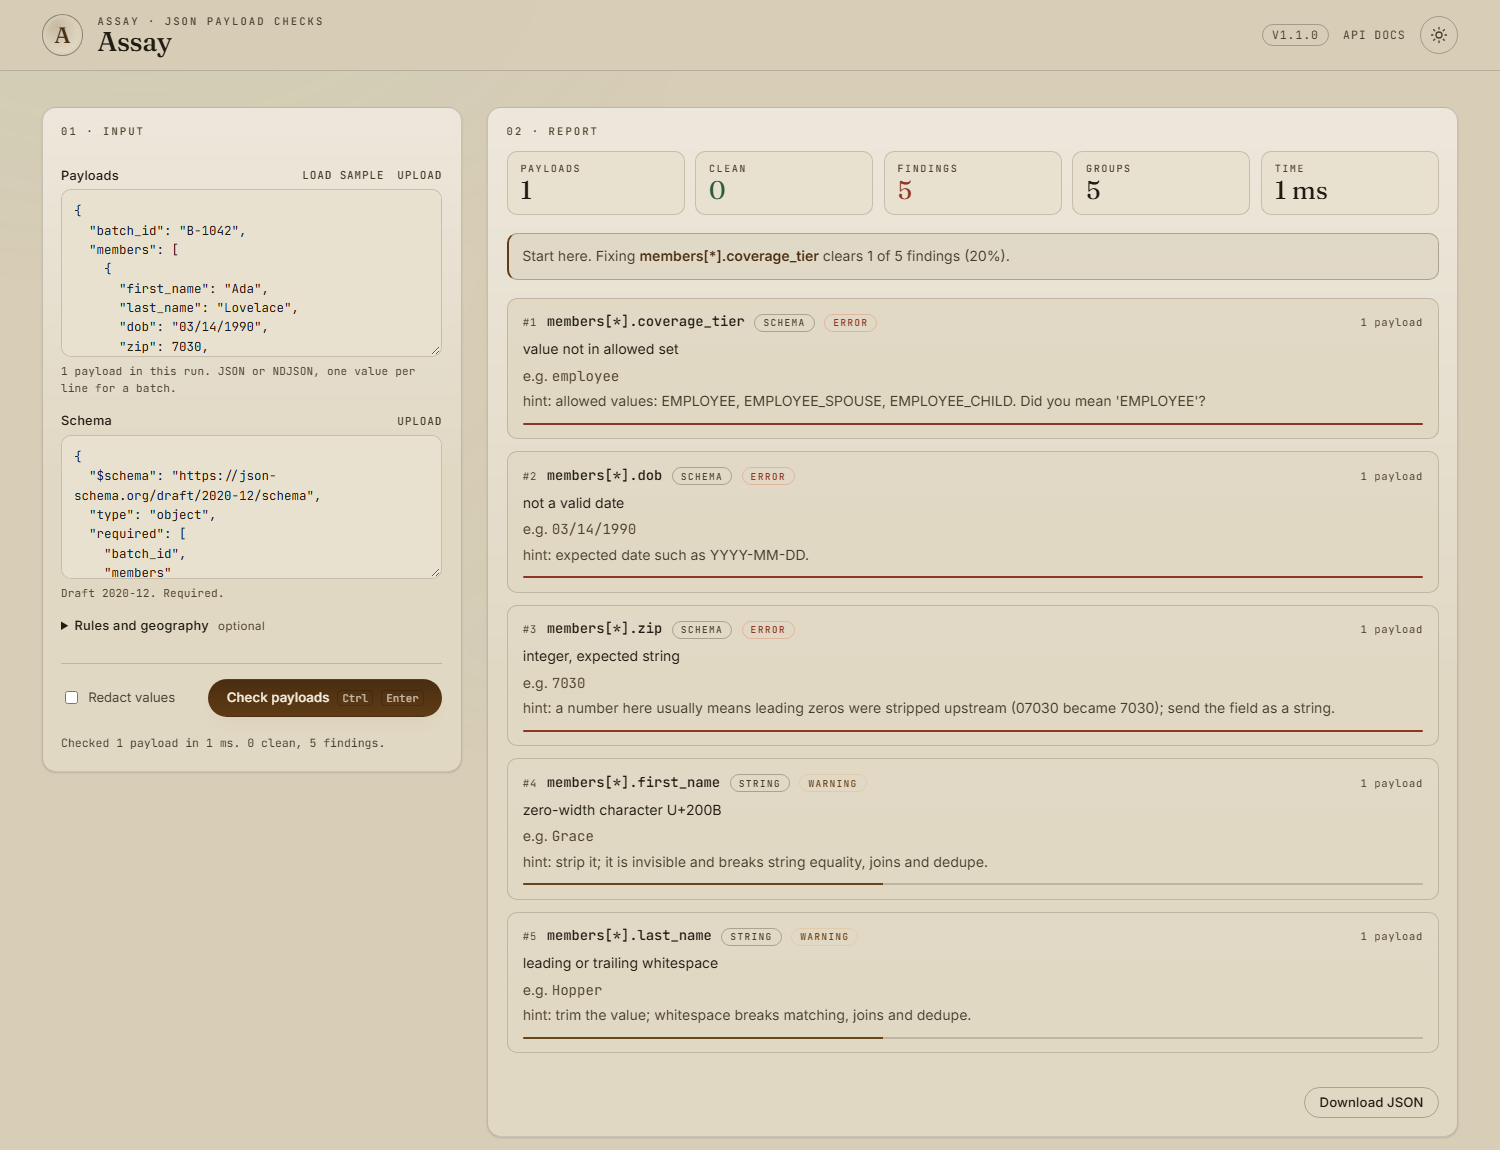
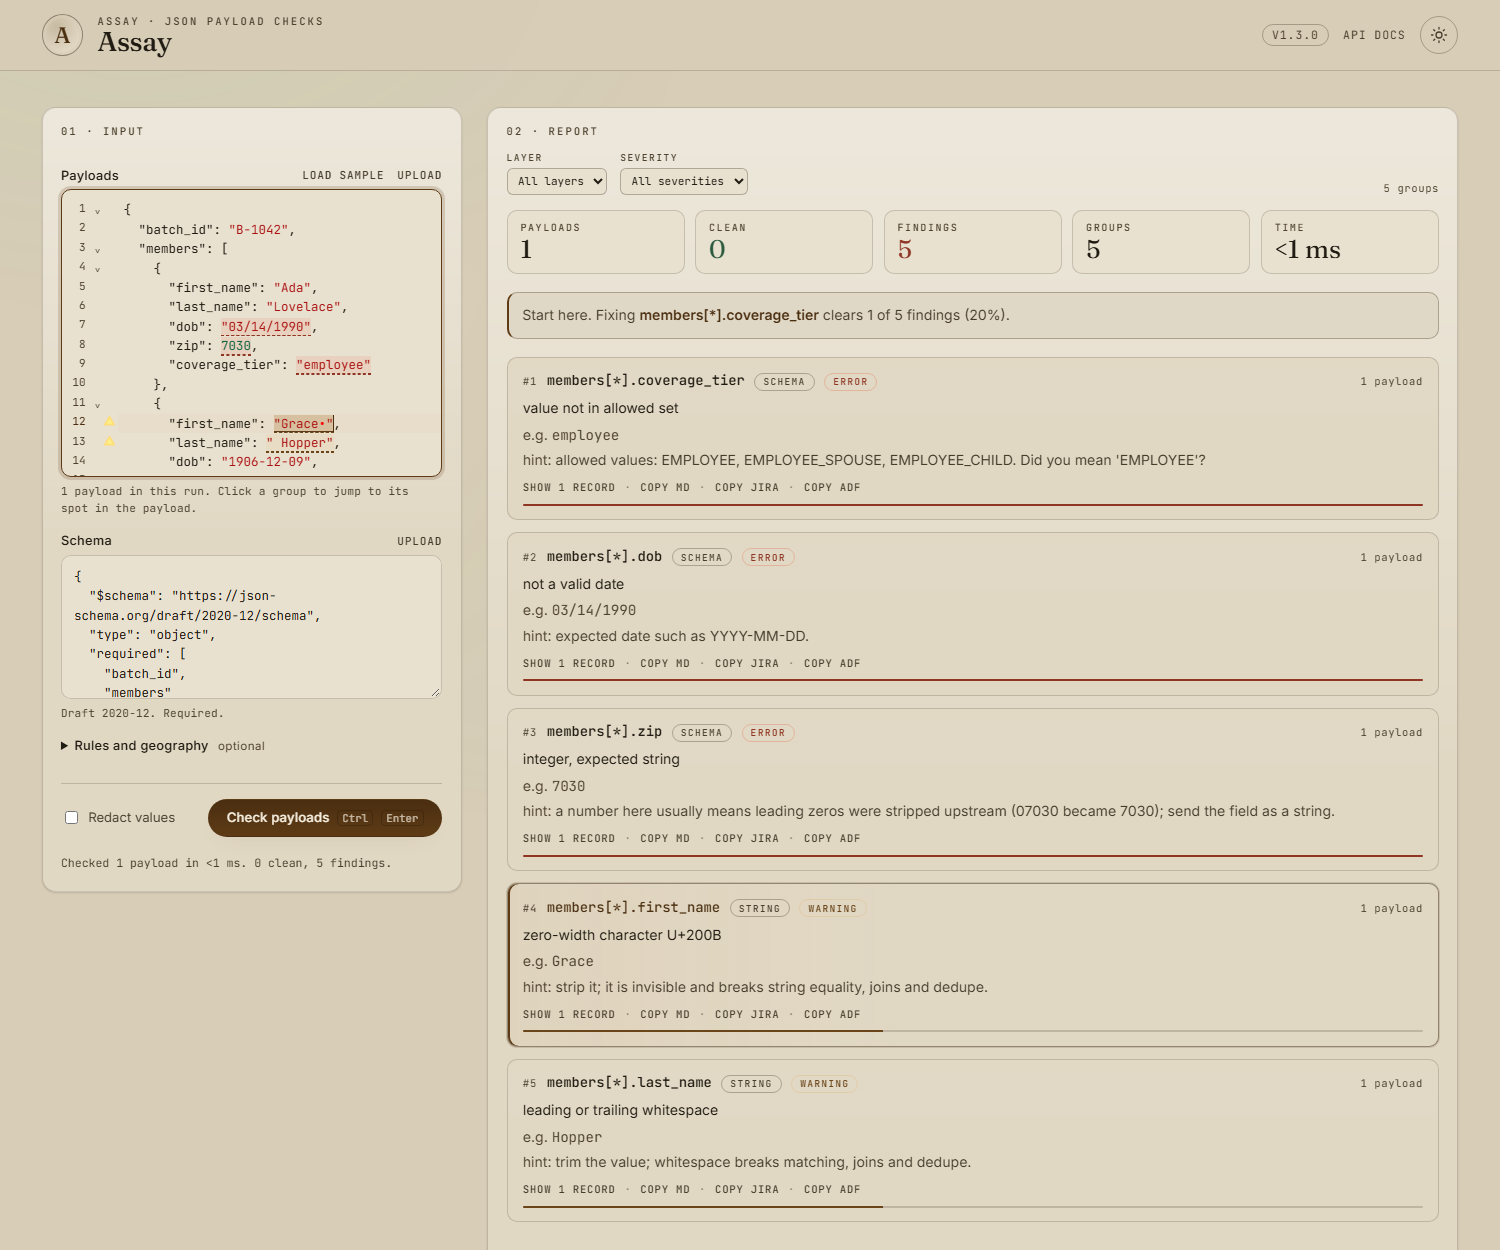
docs(ui): editor screenshots and 1.3.0 changelog

diff --git a/README.md b/README.md
@@ -6,12 +6,12 @@
 > every error at once, pins each finding to a path, and groups the findings by root cause.
 > You fix one mapping instead of reading 4,000 identical failures.
 
-**Status: v1.2. Milestones M1–M7 are built and tested.** Syntax, schema, setup rules,
+**Status: v1.3. Milestones M1–M7 are built and tested.** Syntax, schema, setup rules,
 string quality, offline geography, USPS verification (opt-in), redaction, HTML/SARIF
-reports, a web UI, an HTTP API, and a Docker image. The Switchyard validation
-stage (M8) lives in the separate **Switchyard** project: signed ingest, routing, retries,
-and a DLQ that stores Assay's grouped report. This README covers only what runs in this
-repository.
+reports, a web UI with a CodeMirror editor, an HTTP API, and a Docker image. The
+Switchyard validation stage (M8) lives in the separate **Switchyard** project: signed
+ingest, routing, retries, and a DLQ that stores Assay's grouped report. This README
+covers only what runs in this repository.
 
 ![Assay web UI at night](docs/ui.png)
 
@@ -221,15 +221,29 @@ uv sync --extra api
 uv run assay serve --port 8000
 ```
 
-Open <http://127.0.0.1:8000>. The page accepts one JSON value or one per line, a schema
-and an optional rules YAML file. It runs the same pipeline as the CLI and renders the
-grouped report: summary counts, the fix that clears the most findings, one card per root
-cause with path, hint and samples, correlation notes, and a redaction toggle. The sample
-button loads a payload with several planted defects, and Ctrl+Enter runs the check. The
-report can be downloaded as JSON.
+Open <http://127.0.0.1:8000>. The payload is a CodeMirror 6 editor with JSON
+highlighting, a lint gutter, squiggles and hover tooltips. Every finding is underlined
+at its location, and the two directions are linked:
+
+- click a group, a path or an affected record and the editor jumps to that spot and
+  highlights every instance
+- click a squiggle and the matching group opens
+
+The schema and rules fields accept uploads or drops, and a JSON or NDJSON file can be
+dropped straight onto the editor. Each group card expands to show the records it hit,
+with the payload id, concrete path and a redacted value preview. Filters narrow the
+report by layer and severity.
+
+The report can be downloaded as JSON or as the standalone HTML format. Each group also
+offers a redacted ticket in Markdown, Jira wiki markup or Jira's Atlassian Document
+Format. Tickets carry a minimal repro, expected and actual values, the fix hint and a
+stable `assay-...` label derived from the fingerprint, so a team can find the existing
+issue instead of opening a duplicate.
 
 The page calls `POST /assay/batch`, which takes `payloads`, `schema`, optional `rules` or
-`rules_yaml`, and `redact`. `POST /assay` still accepts a single payload:
+`rules_yaml`, and `redact`, and returns the same report as `--format json` plus a bounded
+list of occurrences for the editor. `POST /assay/export/html` returns the HTML report as
+a download. `POST /assay` still accepts a single payload:
 
 ```bash
 curl -s localhost:8000/assay -H 'content-type: application/json' -d '{
@@ -494,8 +508,9 @@ src/assay/
   redact.py      shape tokens and value scrubbing for --redact
   api.py         FastAPI app: the web UI routes, batch endpoint and single-payload API
   templates/     the HTML shell for the web UI
-  static/        the UI stylesheet and script, served from /static
+  static/        the UI stylesheet, bundled script and favicon
   static/fonts/  self-hosted Fraunces, Inter and JetBrains Mono, with OFL licenses
+ui/              CodeMirror source, esbuild build and a browser smoke test
   cli.py         Typer app and the exit-code contract
 ARCHITECTURE.md  the full design; unbuilt sections are marked planned
 NOTICE.md        attribution for the bundled GeoNames and Census data

diff --git a/CHANGELOG.md b/CHANGELOG.md
@@ -4,6 +4,35 @@ All notable changes to Assay are recorded here. The format follows
 [Keep a Changelog](https://keepachangelog.com/en/1.1.0/), and the project uses
 [Semantic Versioning](https://semver.org/).
 
+## [1.3.0] - 2026-11-26
+
+### Added
+
+- **CodeMirror 6 editor.** JSON highlighting, line numbers, a lint gutter, squiggles and
+  hover tooltips. The bundle lives in `static/app.js`; the source and esbuild build are in
+  `ui/`. Node is only needed when changing the UI.
+- **Two-way navigation.** `jsonc-parser` maps a report path such as `members[3].zip` to a
+  document range. Clicking a group, path or affected record selects and scrolls to that
+  range and highlights every instance of the group. Clicking a squiggle opens the group.
+- **Expandable group cards.** The API now returns up to 50 occurrences per group with the
+  payload id, concrete path, line and column, and a value preview. The card shows them on
+  demand.
+- **Layer and severity filters**, with a visible count and an empty state.
+- **Drag and drop** for payloads, schema and rules files.
+- **HTML export from the page** through `POST /assay/export/html`, alongside the existing
+  JSON download.
+- **Redacted tickets** from each group in Markdown, Jira wiki markup or Atlassian
+  Document Format. They include a minimal repro, expected and actual values, the fix,
+  the fingerprint and a stable `assay-...` label for deduplication.
+- A favicon, and a `ui/smoke.mjs` browser check for the interactions Python tests cannot
+  cover.
+
+### Changed
+
+- `/assay` and `/assay/batch` now include `occurrences` in the response. The CLI JSON
+  output is unchanged; the field is opt-in in `Report.to_dict`.
+- The payload textarea is gone; the editor is the input.
+
 ## [1.2.0] - 2026-11-26
 
 ### Changed
